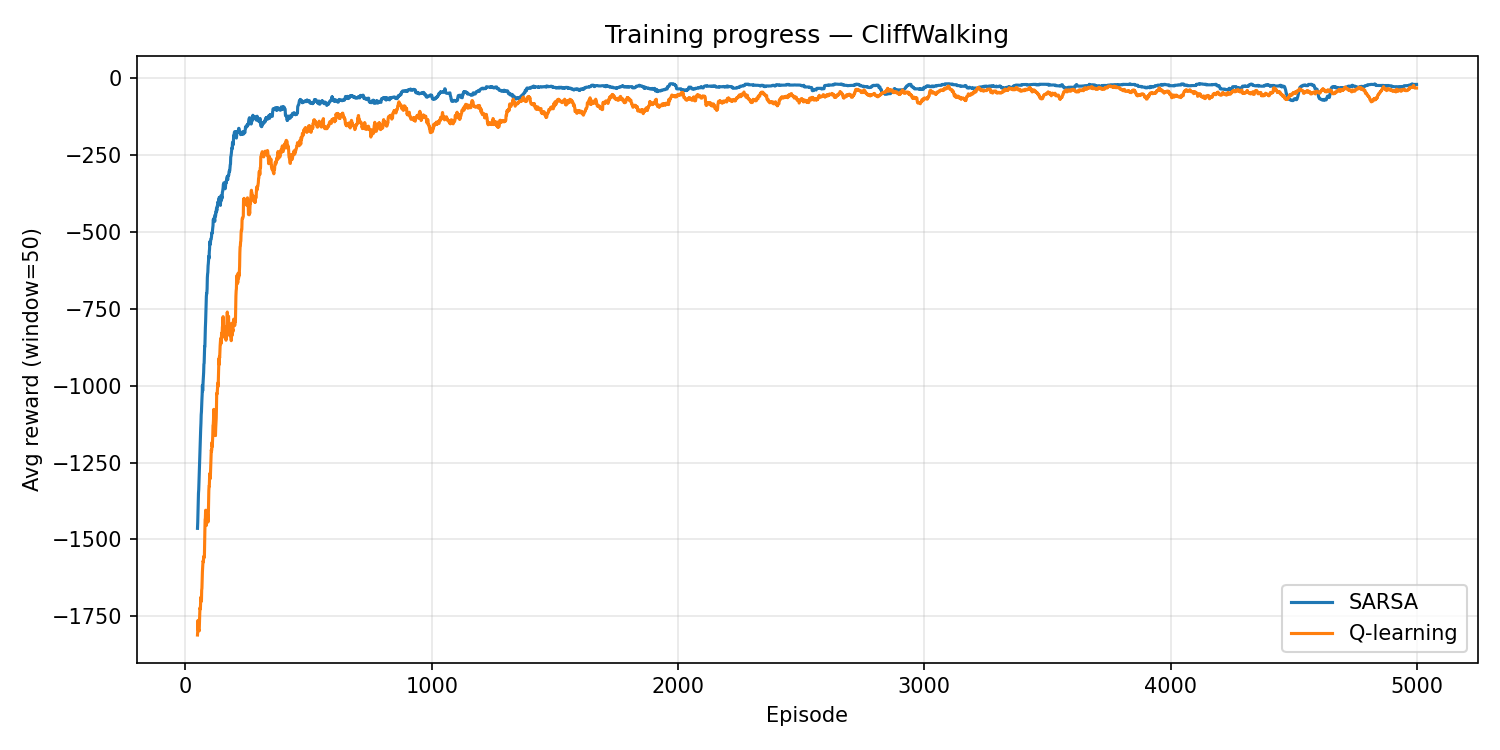
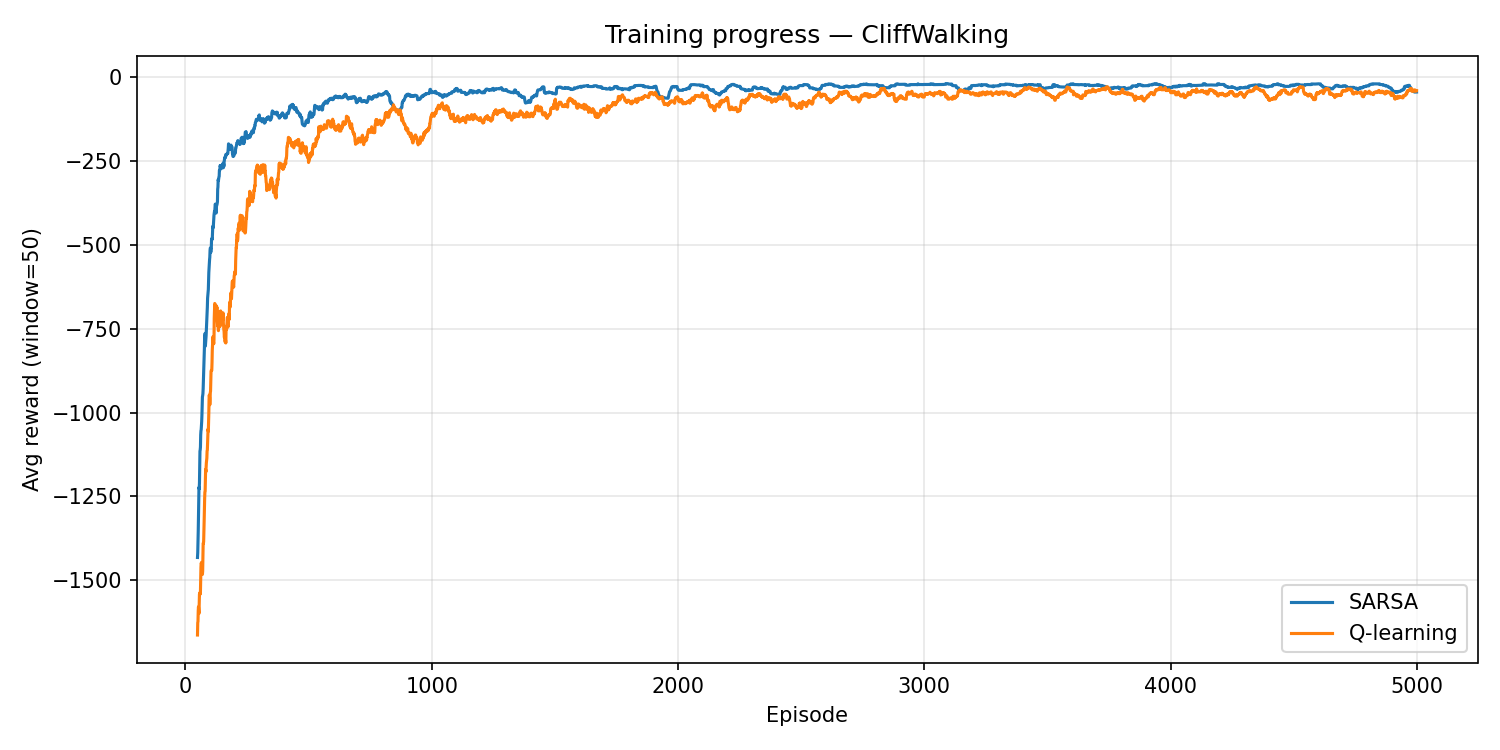
add cliffwalking sarsa and q learning demo

diff --git a/src/hello_rl/tabular_q/make_cliff_demo.py b/src/hello_rl/tabular_q/make_cliff_demo.py
@@ -82,16 +82,9 @@ def write_demo_md(out_dir: str, sarsa_repr: str, ql_repr: str) -> None:
 
         ## Learned policies (one eval episode each)
 
-        <table>
-        <tr>
-          <th>SARSA — safe path (~−17)</th>
-          <th>Q-learning — cliff-edge path (~−13)</th>
-        </tr>
-        <tr>
-          <td><img src="sarsa.gif" alt="SARSA episode"/></td>
-          <td><img src="ql.gif" alt="Q-learning episode"/></td>
-        </tr>
-        </table>
+        | SARSA — safe path (~−17) | Q-learning — cliff-edge path (~−13) |
+        |---|---|
+        | ![SARSA](sarsa.gif) | ![Q-learning](ql.gif) |
 
         ## Policy grids
 

diff --git a/docs/tabular_q/cliff_walking/CLIFF_DEMO.md b/docs/tabular_q/cliff_walking/CLIFF_DEMO.md
@@ -24,16 +24,9 @@
 
     ## Learned policies (one eval episode each)
 
-    <table>
-    <tr>
-      <th>SARSA — safe path (~−17)</th>
-      <th>Q-learning — cliff-edge path (~−13)</th>
-    </tr>
-    <tr>
-      <td><img src="sarsa.gif" alt="SARSA episode"/></td>
-      <td><img src="ql.gif" alt="Q-learning episode"/></td>
-    </tr>
-    </table>
+    | SARSA — safe path (~−17) | Q-learning — cliff-edge path (~−13) |
+    |---|---|
+    | ![SARSA](sarsa.gif) | ![Q-learning](ql.gif) |
 
     ## Policy grids
 
@@ -43,11 +36,11 @@
     **SARSA**
     ```
     +---+---+---+---+---+---+---+---+---+---+---+---+
-| R | R | R | R | R | R | R | R | R | R | R | D |
+| R | R | R | R | R | R | R | R | R | D | R | D |
 +---+---+---+---+---+---+---+---+---+---+---+---+
-| U | U | U | U | U | U | U | U | L | U | R | D |
+| U | D | R | L | R | U | U | R | U | R | R | D |
 +---+---+---+---+---+---+---+---+---+---+---+---+
-| U | L | U | U | U | U | U | U | R | U | R | D |
+| U | L | U | U | U | U | U | U | U | U | R | D |
 +---+---+---+---+---+---+---+---+---+---+---+---+
 | S | C | C | C | C | C | C | C | C | C | C | G |
 +---+---+---+---+---+---+---+---+---+---+---+---+
@@ -56,7 +49,7 @@
     **Q-learning**
     ```
     +---+---+---+---+---+---+---+---+---+---+---+---+
-| D | R | R | R | R | R | R | R | R | R | R | D |
+| R | R | R | R | R | R | R | R | R | R | R | D |
 +---+---+---+---+---+---+---+---+---+---+---+---+
 | R | R | R | R | R | R | R | R | R | R | R | D |
 +---+---+---+---+---+---+---+---+---+---+---+---+
